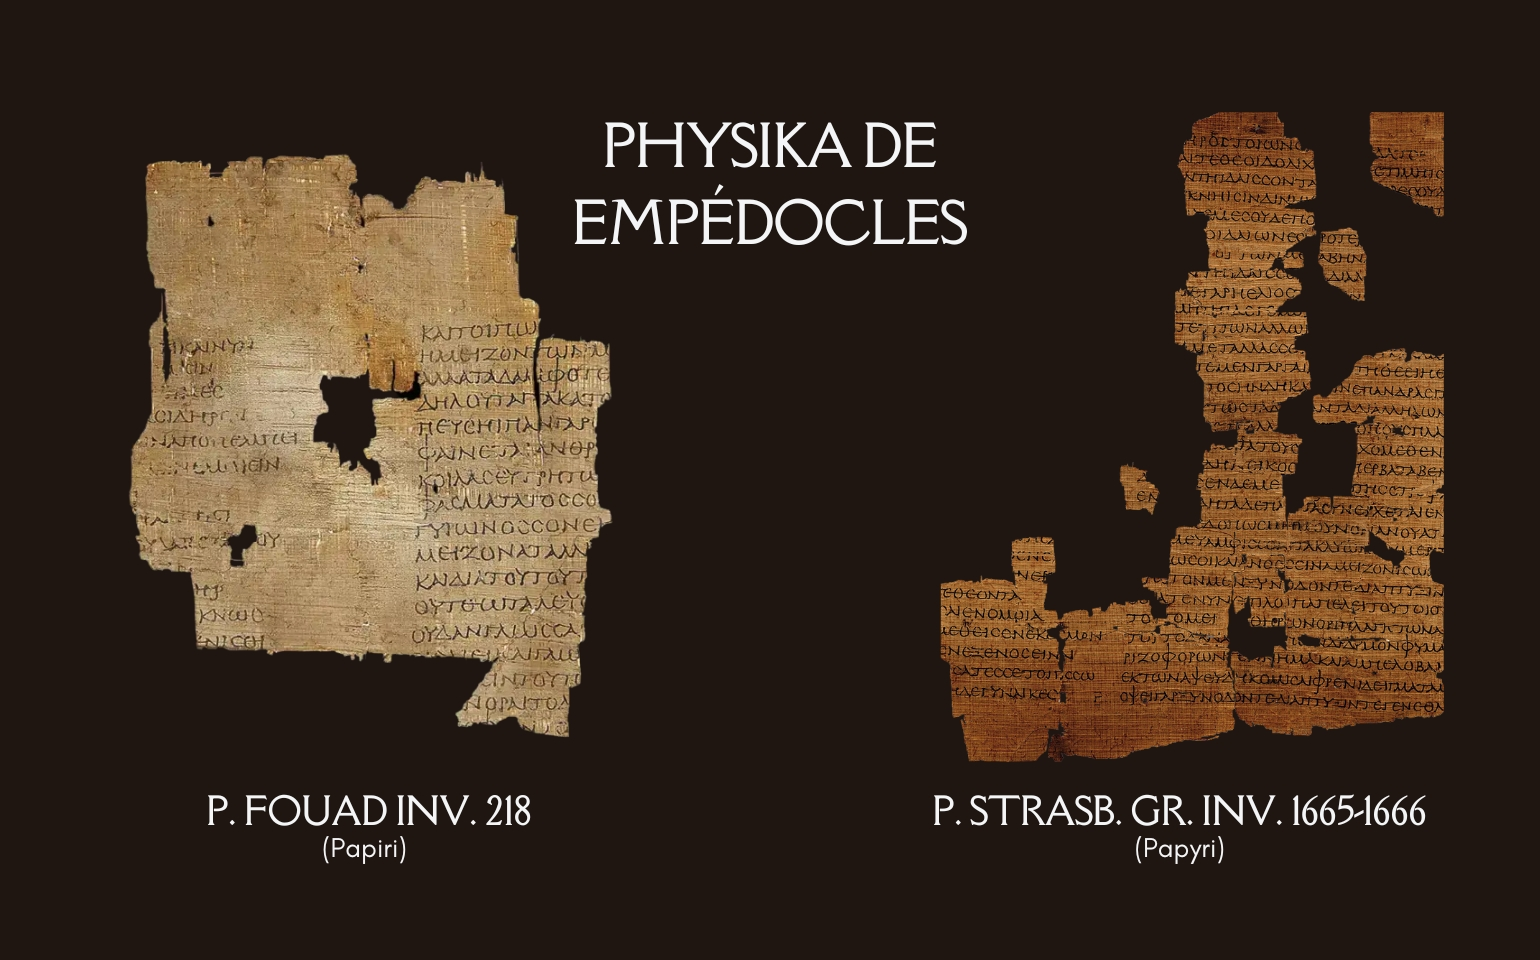
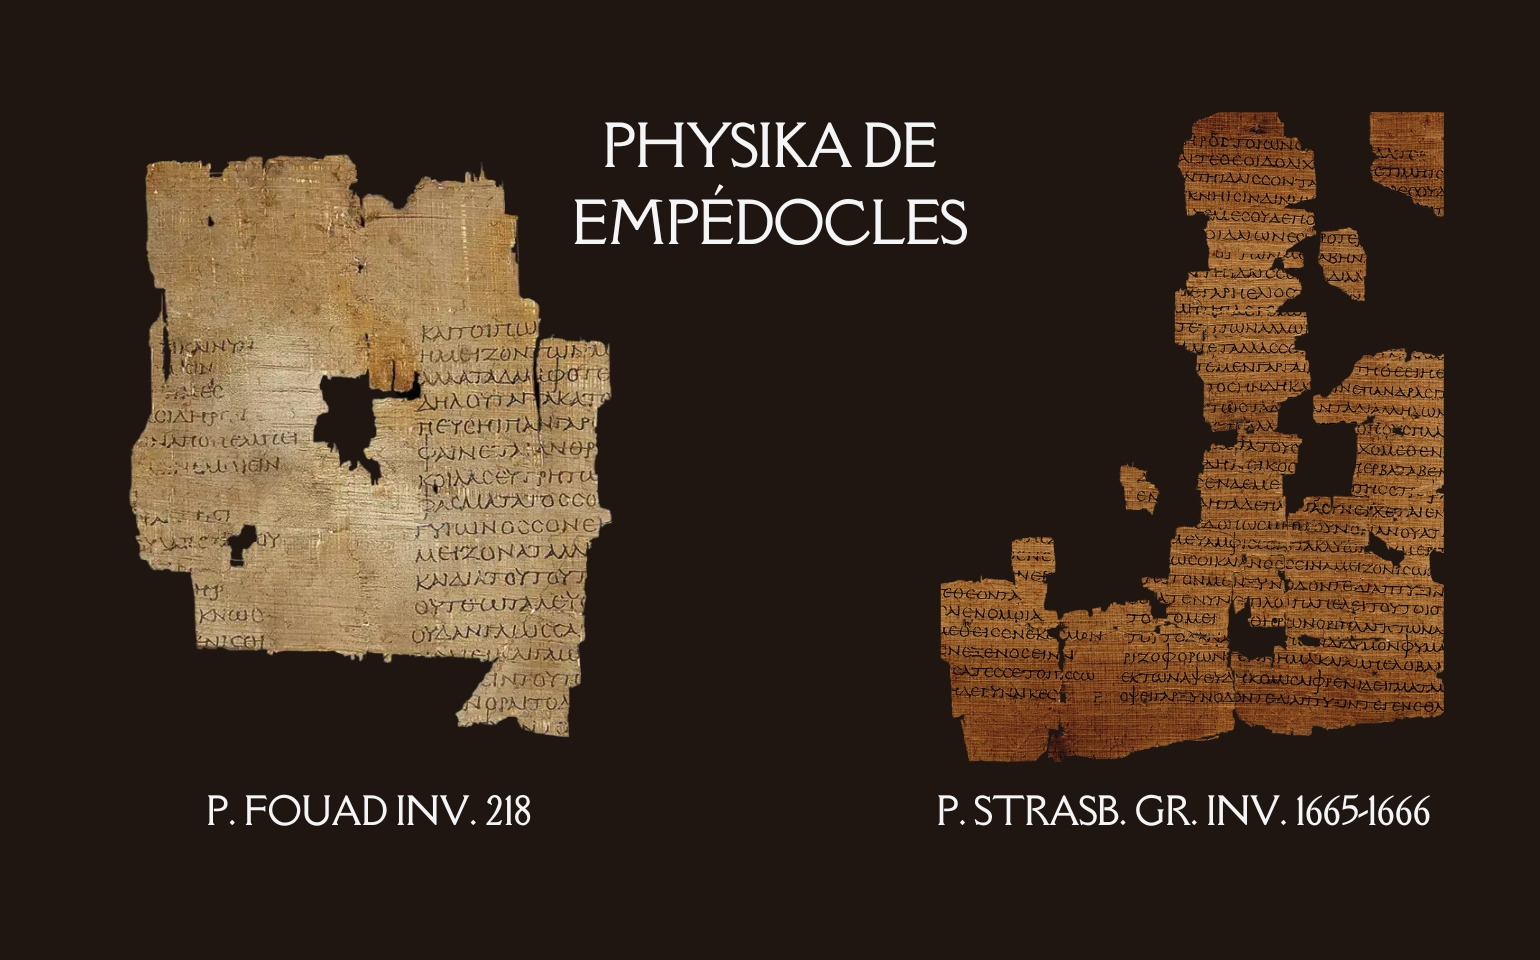
back to top

Changed region(s): [[0.5922, 0.8125, 0.9351, 0.9062], [0.2182, 0.875, 0.2805, 0.9062]]

diff --git a/static/css/_components.css b/static/css/_components.css
@@ -695,3 +695,71 @@
   color: var(--muted);
   white-space: nowrap;
 }
+
+/* ====== BACK TO TOP ======
+   Zero-height sticky rail pins an absolutely positioned arrow to the
+   bottom-right of the viewport while <main> is in view. Because the rail
+   lives inside <main>, the arrow scrolls out naturally when the article
+   ends and the footer comes into view — so it "flows with" the content
+   rather than hovering permanently like a fixed UI element. */
+
+.back-to-top-rail {
+  position: sticky;
+  top: calc(100vh - 88px);
+  top: calc(100dvh - 88px);   /* mobile-viewport-aware */
+  height: 0;
+  pointer-events: none;       /* don't intercept clicks across the page */
+  z-index: 10;
+}
+
+.back-to-top {
+  position: absolute;
+  bottom: 0;
+  right: var(--space-xl);
+  display: inline-flex;
+  align-items: center;
+  justify-content: center;
+  min-width: 44px;            /* WCAG 2.5.5 target — scoped, not global */
+  min-height: 44px;
+  font-family: var(--sans-meta);
+  font-size: var(--step-1);
+  line-height: 1;
+  color: var(--muted);
+  text-decoration: none;
+  opacity: 0;
+  pointer-events: none;
+  transition:
+    opacity var(--transition-normal),
+    color var(--transition-normal);
+}
+
+.back-to-top.is-visible {
+  opacity: 0.55;
+  pointer-events: auto;
+}
+
+.back-to-top:hover,
+.back-to-top:focus-visible {
+  opacity: 1;
+  color: var(--text);
+}
+
+.back-to-top:focus-visible {
+  outline: 2px solid var(--text);
+  outline-offset: 2px;
+}
+
+/* On wider screens, slide the arrow into the right margin of the
+   centered 800px prose column so it sits beside the text, not over it.
+   max() guards against negative offsets at intermediate widths. */
+@media (min-width: 1024px) {
+  .back-to-top {
+    right: max(var(--space-xl), calc((100% - 800px) / 2 - var(--space-3xl)));
+  }
+}
+
+@media (prefers-reduced-motion: reduce) {
+  .back-to-top {
+    transition: none;
+  }
+}

diff --git a/static/js/back-to-top.js b/static/js/back-to-top.js
@@ -1,0 +1,31 @@
+/**
+ * Back to top
+ * Reveals the .back-to-top link once the user has scrolled past
+ * SHOW_THRESHOLD pixels, and smooth-scrolls to the top on click
+ * (respecting prefers-reduced-motion).
+ */
+(() => {
+  const btn = document.querySelector('.back-to-top');
+  if (!btn) return;
+
+  const SHOW_THRESHOLD = 400;
+
+  const toggle = () => {
+    btn.classList.toggle('is-visible', window.scrollY > SHOW_THRESHOLD);
+  };
+
+  const scrollToTop = (e) => {
+    e.preventDefault();
+    const reduceMotion = window.matchMedia('(prefers-reduced-motion: reduce)').matches;
+    window.scrollTo({
+      top: 0,
+      behavior: reduceMotion ? 'auto' : 'smooth',
+    });
+  };
+
+  // Initial state — handles page reloads at non-zero scroll
+  toggle();
+
+  window.addEventListener('scroll', toggle, { passive: true });
+  btn.addEventListener('click', scrollToTop);
+})();

diff --git a/layouts/_default/baseof.html b/layouts/_default/baseof.html
@@ -60,7 +60,7 @@
     })();
   </script>
 </head>
-<body>
+<body id="top">
   <!-- Skip to main content link -->
   <a href="#main-content" class="skip-link">Skip to main content</a>
   
@@ -69,13 +69,20 @@
   
   <!-- Main content -->
   <main id="main-content">
+    <!-- Back-to-top rail: zero-height sticky anchor that pins the arrow
+         to the bottom-right of the viewport while main is in view -->
+    <div class="back-to-top-rail">
+      <a href="#top" class="back-to-top" aria-label="Back to top">↑</a>
+    </div>
+
     {{ block "main" . }}{{ end }}
   </main>
   
   <!-- Footer -->
   {{ partial "footer.html" . }}
   
-  <!-- Theme toggle script -->
+  <!-- Scripts -->
   <script src="/js/theme-toggle.js"></script>
+  <script src="/js/back-to-top.js" defer></script>
 </body>
 </html>